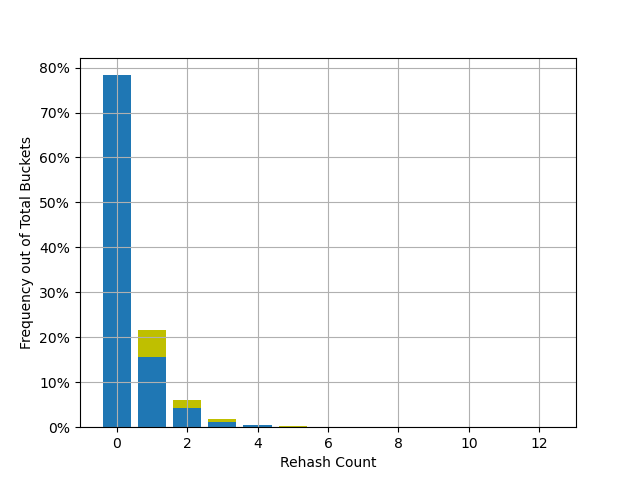
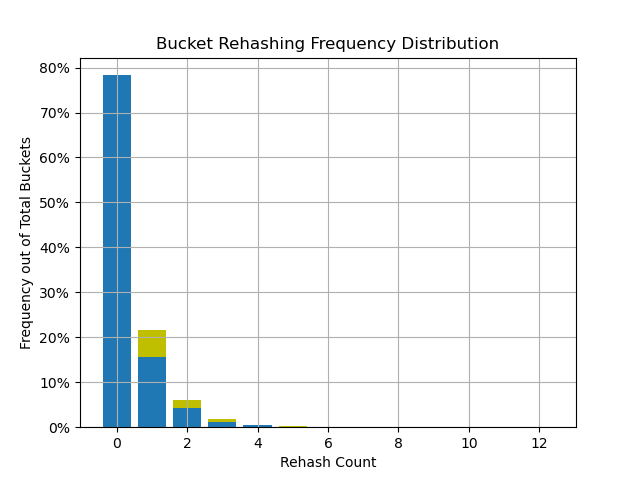
rehash distributions

Changed region(s): [[0.25, 0.0625, 0.7812, 0.125]]

diff --git a/scripts/fp_rehash.py b/scripts/fp_rehash.py
@@ -9,7 +9,7 @@ percent_count = [] # % of buckets rehashed to specific count
 cumulative = [] # number of buckets rehashed at each round
 percent_cumu = [] # % of buckets rehashed at round
 
-with open('../csv/main_rehash.csv') as file:
+with open('../csv/cert_rehash.csv') as file:
     reader = csv.DictReader(file, delimiter=',')
     for row in reader:
         rehash.append(int(row['rehashes per bucket']))
@@ -44,13 +44,21 @@ plt.bar(rehash, percent_count)
 plt.plot(loc = "upper right")
 plt.xlabel("Rehash Count")
 plt.ylabel("Frequency out of Total Buckets")
-
-# xlocs, xlabs = plt.xticks()
+plt.title("Bucket Rehashing Frequency Distribution")
 ax.yaxis.set_major_formatter(mtick.PercentFormatter())
 
 
+"""
+ax2 = ax.twinx()
+ax2.bar(rehash, count)
+ax2.set_ylabel("Frequency")
+
+# xlocs, xlabs = plt.xticks()
+ax.yaxis.set_major_formatter(mtick.PercentFormatter())
+"""
+
 plt.grid(True)
 plt.show()
-fig.savefig("../figures/main_rehash.png")
+fig.savefig("../figures/cert_rehash.png")
 
 exit()
